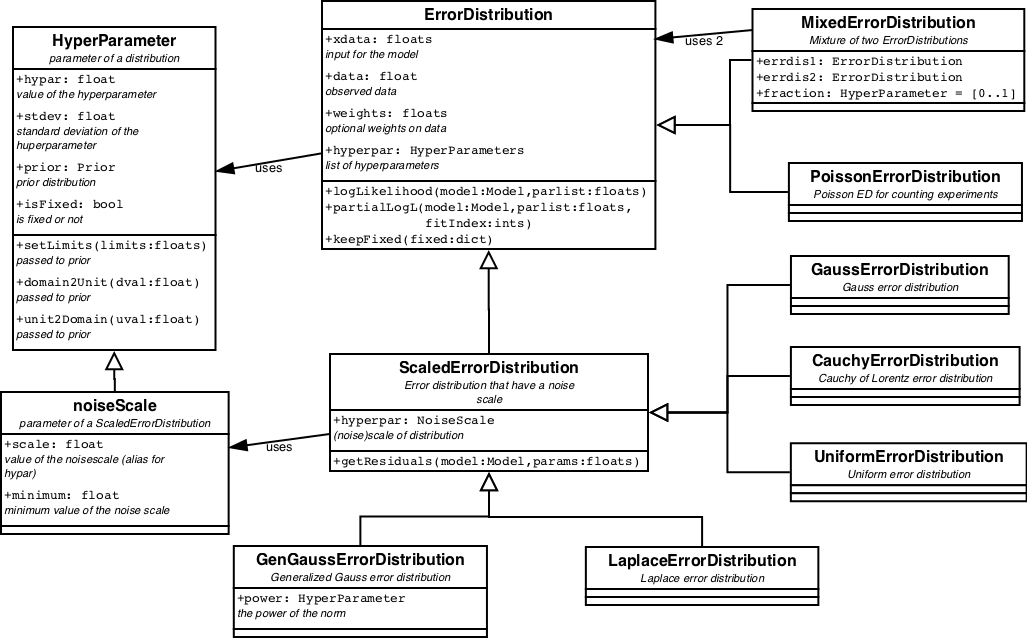
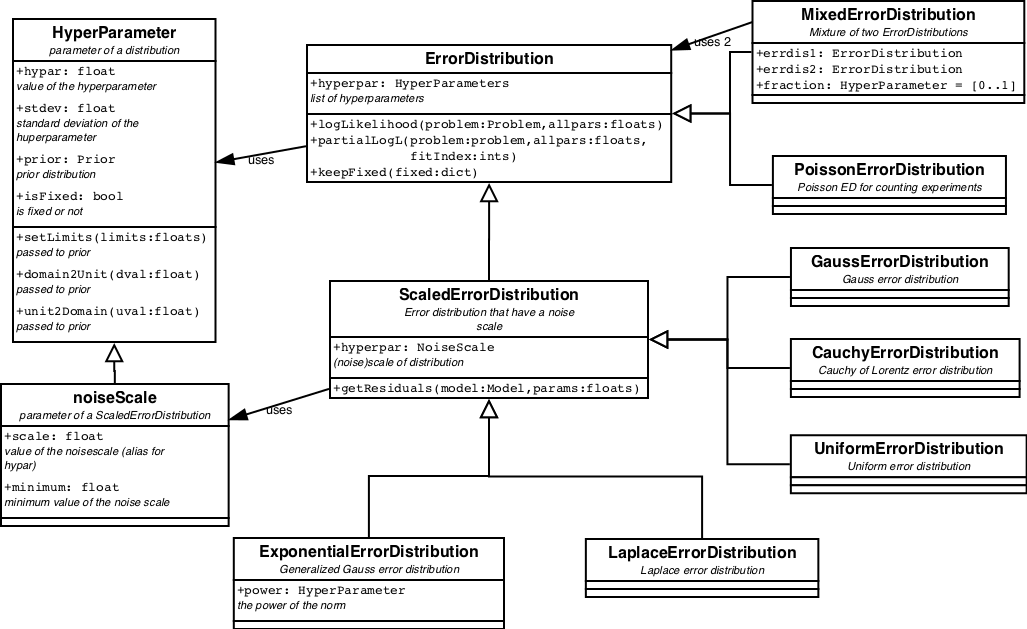
update of docs

diff --git a/BayesicFitting/documentation/manual.md b/BayesicFitting/documentation/manual.md
@@ -757,9 +757,9 @@ discarded and replaced by a copy of one of the remaining walkers. The
 copied walker is wandered around randomly by one or more **Engine**s, 
 provided it keeps a higher likelihood than the value of the discarded
 walker. This way the ensemble of walkers stays randomly distributed over
-the prior while it slowly ascends the  likelihood to the top. The
-discarded walker is kept as a sample of the posterior, appropriately
-weighted.
+the prior while the ensemble as a whole slowly ascends the likelihood
+to the top. The discarded walker is kept as a sample of the posterior,
+appropriately weighted.
 
 **NestedSampler** uses a **Prior** for the initial distribution and an
 **ErrorDistribution** to calculate the likelihoods.
@@ -767,12 +767,12 @@ weighted.
 Nested sampling is an idea of David McKay and John Skilling.
 
 
-**NestedSampler** needs more information to run. It needs priors for all 
-its parameters and it needs a likelihood function. We start off defining
-some data. 
+**NestedSampler** needs more information to run tahn ordinary
+**Fitter**s. It needs priors for all  its parameters and it needs a
+likelihood function. We start off defining some data. 
 
-    x = [1.0, 2.0, 3.0, 4.0, 5.0]
-    y = [0.2, 1.3, 4.5, 1.4, 0.1]
+    xdata = [1.0, 2.0, 3.0, 4.0, 5.0]
+    ydata = [0.2, 1.3, 4.5, 1.4, 0.1]
 
 Set up the model with limits on the uniform priors of the parameters.
 
@@ -781,14 +781,14 @@ Set up the model with limits on the uniform priors of the parameters.
     hilim = [+10.0, 5.0, 5.0]		    # high limits
     model.setLimits( lolim, hilim )	    # use UniformPrior with limits
 
-The likelihood is calculated from the **GaussianErrorDistribution**. By
+The likelihood is calculated by the **GaussErrorDistribution**. By
 default it has a fixed scale. However in most real cases ( see [noise2
 example](#../examples/noise2.ipynb) )  it is better to treat the scale
 as a hyperparameter, which needs a prior, by default a
 **JeffreysPrior**, and limits.
 
     limits = [0.01, 10]
-    ns = NestedSampler( x, model, y, limits=limits )	
+    ns = NestedSampler( xdata, model, ydata, limits=limits )	
 
 We execute the program as
 
@@ -827,18 +827,21 @@ A **Sample** is a collection of items.
     id of the parent of this sample.
 + model : Model<br>
     the model being used.
-+ allpars : array_like<br>
-    list of model parameters and hyperparameters.
++ parameters : array_like<br>
+    list of model parameters.
++ hyper : array_like (optional)<br>
+    list of hyper parameters from the **ErrorDistribution**.
++ nuisance : array_like (optional)<br>
+    list of nuisance parameters from **ErrorsInXandYProblem**.
 + logL : float<br>
     log Likelihood = log Prob( data | params )
 + logW : float<br>
     log weight. Relative weight of this sample.
 + fitIndex : None or array_like<br>
-    list of (hyper)parameters to be fitted; None is all.
+    list of all parameters to be fitted; None is all.
 
-**Sample**s can be collected in a **SampleList**. Both the `walkers`
-inside the **NestedSamler** and the resulting samples from the posterior
-are **SampleList**s.
+**Sample**s can be collected in a **SampleList**.
+The resulting samples from the posterior are collected in a **SampleList**.
 
 When using the samples of the posterior for other purposes than are
 provided in **SampleList**, all items derived from individual
@@ -848,6 +851,12 @@ provided in **SampleList**, all items derived from individual
 
 before averaging them.
     
+### Walkers and WalkerList.
+
+The internal ensemble of trial points is designed as a **WalkerList**, 
+or a list of **Walker**s. **Walker**s are similar to **Sample**s, except 
+that they have a **Problem** in stead of a **Model**.
+
 The number of walkers can be set with the `ensemble` keyword. By default
 `ensemble=100`. The number of walkers that are discarded in every
 iteration can be set with `discard`. By default `discard=1`. When
@@ -858,8 +867,8 @@ resulting samples. When the size of the sample list is larger than
 maxsize, the samples with the smallest weights are thrown out. By
 default `maxsize=None`.
 
-    ns = NestedSampler( x, model, y, ensemble=200, discard=5,
-                        threads=True, maxsize=500 ) 
+    ns = NestedSampler( xdata, model, ydata, ensemble=200, discard=5,
+                        threads=True, maxsize=5000 ) 
 
 
 ### Prior
@@ -902,14 +911,40 @@ Except the **PoissonErrorDistribution** all others have one or more
 **HyperParameter**s which are governed by a **Prior**, unless they
 are known in advance.
 
-    dis = GaussErrorDistribution( x, y )
+    dis = GaussErrorDistribution( )
     dis.setLimits( [0.1, 1.0] )
-    ns = NestedSampler( x, model, y, distribution=dis )
+    ns = NestedSampler( xdata, model, ydata, distribution=dis )
+
+Since version 2.0 the **ErrorDistribution**s has changed its interface.
+Previously it was called as `GaussErrorDistribution( xdata, ydata )`.
+Now the resposiblities of ErrorDistribution and Problem are better separated. 
 
 The use of e mixture of 2 error distributions is shown in
 [outliers2](#../examples/outliers-2.ipynb).
 
 See below for lists of available [**ErrorDistribution**s](#list-errdis).
+
+### Problem
+
+The **Problem** classes have been introduced in version 2.0. They are
+meant to broaden the applicability of NestedSampler beyond the classic
+problems that we addressed before. A **Problem** collects all items that 
+are needed to solve the problem, where the parameters constitute the
+solution. 
+
+A **ClassicProblem** consists of a parameterized model with a list of
+measured data at the locations of the indepemdent variables. Optionally
+there are weights. The **ClassicProblem** is invoked by default.
+
+Other **Problem**s need to be separately invoked.
+
+    problem = ErrorsInXandYProblem( model, xdata, ydata )
+    ns = NestedSampler( problem=problem )
+    evidence = ns.sample()
+
+See below for lists of available [**Problem**s](#list-problems). 
+More **Problem**s can be expected in later versions.
+ 
 
 ### Engine
 
@@ -935,7 +970,7 @@ number of parameters.
 The keyword `rate` governs the speed of the engines. High rate equals
 high speed equals low accuracy.  
 
-    ns = NestedSampler( x, model, y, speed=0.5,
+    ns = NestedSampler( xdata, model, ydata, speed=0.5,
                         engines=["galilean", "gibbs", "step"] )
 
 
@@ -959,8 +994,7 @@ The keyword `verbose` determines how much output the program generates.
 The keyword `seed` seeds the random number generator, to ensure the same
 random sequence each run.
 
-
-    ns = NestedSampler( x, model, y, weights=wgts, keep={0:1.0},
+    ns = NestedSampler( xdata, model, ydata, weights=wgts, keep={0:1.0},
                         seed=123456, verbose=2 ) 
     logE = ns.sample( keep={2:3.14}, plot=True )
 
@@ -1157,10 +1191,28 @@ BaseFitters contain common methods for fitters that inherit from them.
     A novel technique to do Bayesian calculation.
 + **Explorer**<br>
     Helper class of NestedSampler to run the **Engine**s.
++ **Walker**<br>
+    Trial point in parameter space.
++ **WalkerList**<br>
+    Ensemble of **Walker**s.
 + **Sample**<br>
     Weighted random draw from a Posterior distribution from **NestedSampler**.
 + **SampleList**<br>
     List of **Sample**s with interpretational methods.
+
+<a name="list-problems"></a>
+#### Problems
+
++ **ClassicProblem**<br>
+    Default problem
++ **ErrorsInXandYProblem**<br>
+    Classic problem with errors in both xdata and ydata.
+
+<!-- dont remove -->
+
++ **Problem**<br>
+    Base class defining problems.
+
 
 <a name="list-priors"></a>
 #### Prior distributions
@@ -1225,16 +1277,14 @@ BaseFitters contain common methods for fitters that inherit from them.
 
 + **CrossEngine**<br>
     Cross over between 2 walkers.
-+ **FrogEngine**<br>
-    The FrogEngine jumps a parameter set towards/over a bunch of others.(TBD)
 + **GalileanEngine**<br>
     Move all parameters in forward steps, with mirroring on the edge.
 + **GibbsEngine**<br>
     Move a one parameter at a time by a random amount.
 + **StartEngine**<br>
-    Generates an initial random sample.
+    Generates an initial random walker.
 + **StepEngine**<br>
-    Move a a walker in a random direction.
+    Move a walker in a random direction.
 
 <!-- dont remove -->
 

diff --git a/BayesicFitting/documentation/design.md b/BayesicFitting/documentation/design.md
@@ -466,32 +466,53 @@ carefully check the results.
 ## 4. NestedSampler
 
 Nested Sampling is an algorithm invented by David MacKay and John
-Skilling, to sample and to integrate the posterior to obtain the
-evidence. **NestedSampler** follows the core algorithm as presented in
-[Sivia][1] closely, but is expanded with pluggable **Model**s,
+Skilling, to integrate the posterior to obtain the evidence.
+At the same time samples from the posterior are collected into a 
+**SampleList**. 
+**NestedSampler** follows the core algorithm as presented in
+[Sivia][1] closely, but is expanded with pluggable **Problem**s, **Model**s,
 **Prior**s, **ErrorDistribution**s and **Engine**s. It offers solutions
 to a wide variety of inverse problems.
 
-Initially an ensemble of **Sample**s in the space spanned by the
-(hyper)parameters is randomly distributed over the **Prior**s of the
-parameters. These points are called walkers and typically there are 100
-of them. In an iterative loop, the walker with the lowest likelihood is
-removed from the ensemble of walkers. It is weighted and stored in a
-**SamleList**. One of the remaining walkers is copied and randomly moved
-around by **Engine**s, provided that its likelihood stays higher than
-that of the stored **Sample**. This way the walkers slowly climb to the
-maximum value of the likelihood. The stored **Sample**s provide enough
-pointers into the Likelihood function to make a good estimate of the
-integral (evidence).
+Initially an ensemble of trial points, a **WalkerList**, in the space 
+spanned by the (hyper)parameters is randomly distributed over the
+**Prior**s of the parameters. These points are **Walkers** and
+typically there are 100 of them. In an iterative loop, the walker with
+the lowest likelihood is removed from the ensemble of walkers. It is
+weighted and stored as a **Sample** in a **SamleList**. 
+One of the remaining walkers is
+copied and randomly moved around by **Engine**s, provided that its
+likelihood stays higher than that of the stored **Sample**. This way the
+walkers slowly climb to the maximum value of the likelihood. The stored
+**Sample**s provide enough pointers into the Likelihood function to make
+a good estimate of the integral (evidence).
 
 The classes associated with NestedSampler are displayed in figure 7.
 
 ![NestedSampler](images/NestedSampler.png "Figure 7")
 
-**NestedSampler** contains 2 **SampleList**s, one internally to store
-the walkers and one to store the weighted samples of the posterior. Both
-**SampleList**s are lists of **Sample**s.
-**NestedSampler** has a **Model**, containing a list of parameters, each
+**NestedSampler** acts upon a **Problem**. A **Problem** is a object
+that encodes a solvable problem. This is meant in a very broad sense.
+The solution of the problem is contained in the parameters. Together
+with (special) ErrorDistribution, Engines and Priors, NestedSampler 
+can optimize the parameters. What the Problem, parameters, etc. exactly 
+are, is completely dependent on the problem to be solved. 
+
+In versions 1.0 of this package and below, only problems with parameterized
+models, one or more dimensional input and one-dimensional outputs were 
+handled. For these kind of problems ClassicProblem is introduced. Mostly 
+it stays behind the scenes and is invisible for the users.
+
+More **Problem**s can be found in figure 8.
+
+![Problems](images/Problem.png "Figure 8")
+
+A **Problem** knows how to calculate its result, partial and derivative
+given the parameters. It also knows which **Engine**s and which 
+**ErrorDistribution** is the best choice.
+
+
+The **ClassicProblem** has a **Model**, containing a list of parameters, each
 of which has a **Prior**. Together with the `xdata`, the `ydata` and the
 optional `weights`, the likelihood can be calculated by the
 **ErrorDistribution**. The **ErrorDistribution** itself might have
@@ -506,9 +527,9 @@ The **Prior**s contain information about the parameters which is known
 before the data is taken into account. It is the range that the
 parameters can move, without being frowned up on. 
 
-The predefined **Prior**s are displayed in figure 8.
+The predefined **Prior**s are displayed in figure 9.
 
-![Priors](images/Prior.png "Figure 8")
+![Priors](images/Prior.png "Figure 9")
 
 All **Prior**s define two methods `unit2domain` which transforms
 (random) value in [0,1] into a (random) value from the prior
@@ -525,9 +546,9 @@ logLikelihood wrt the parameters is also defined. It is used in the
 **Engine** of choice for parameter with continuous values:
 **GalileanEngine**. 
 
-The predefined **ErrorDistribution**s are displayed in figure 9.
+The predefined **ErrorDistribution**s are displayed in figure 10.
 
-![ErrorDistributions](images/ErrorDistribution.png "Figure 9")
+![ErrorDistributions](images/ErrorDistribution.png "Figure 10")
 
 Some **ErrorDistribution**s have parameters of themselves, so called
 **HyperParameter**s. One special case is the **NoiseScale**.
@@ -553,6 +574,10 @@ The way the walkers are moved around in the available parameter space is
 determined by the **Engine**s. Several **Engine**s are availble:
 **GibbsEngine**, **CrossEngine** and **StepEngine**. For
 **Dynamic**Models **BirthEngine** and **DeathEngine** are needed too.
+
+The available **Engine**s are displayed in figure 11.
+
+![Enginess](images/Engine.png "Figure 11")
 
 Two need special mentioning. The **StartEngine** generates the initial
 random ensemble. The **GalileanEngine** moves the point in a random
